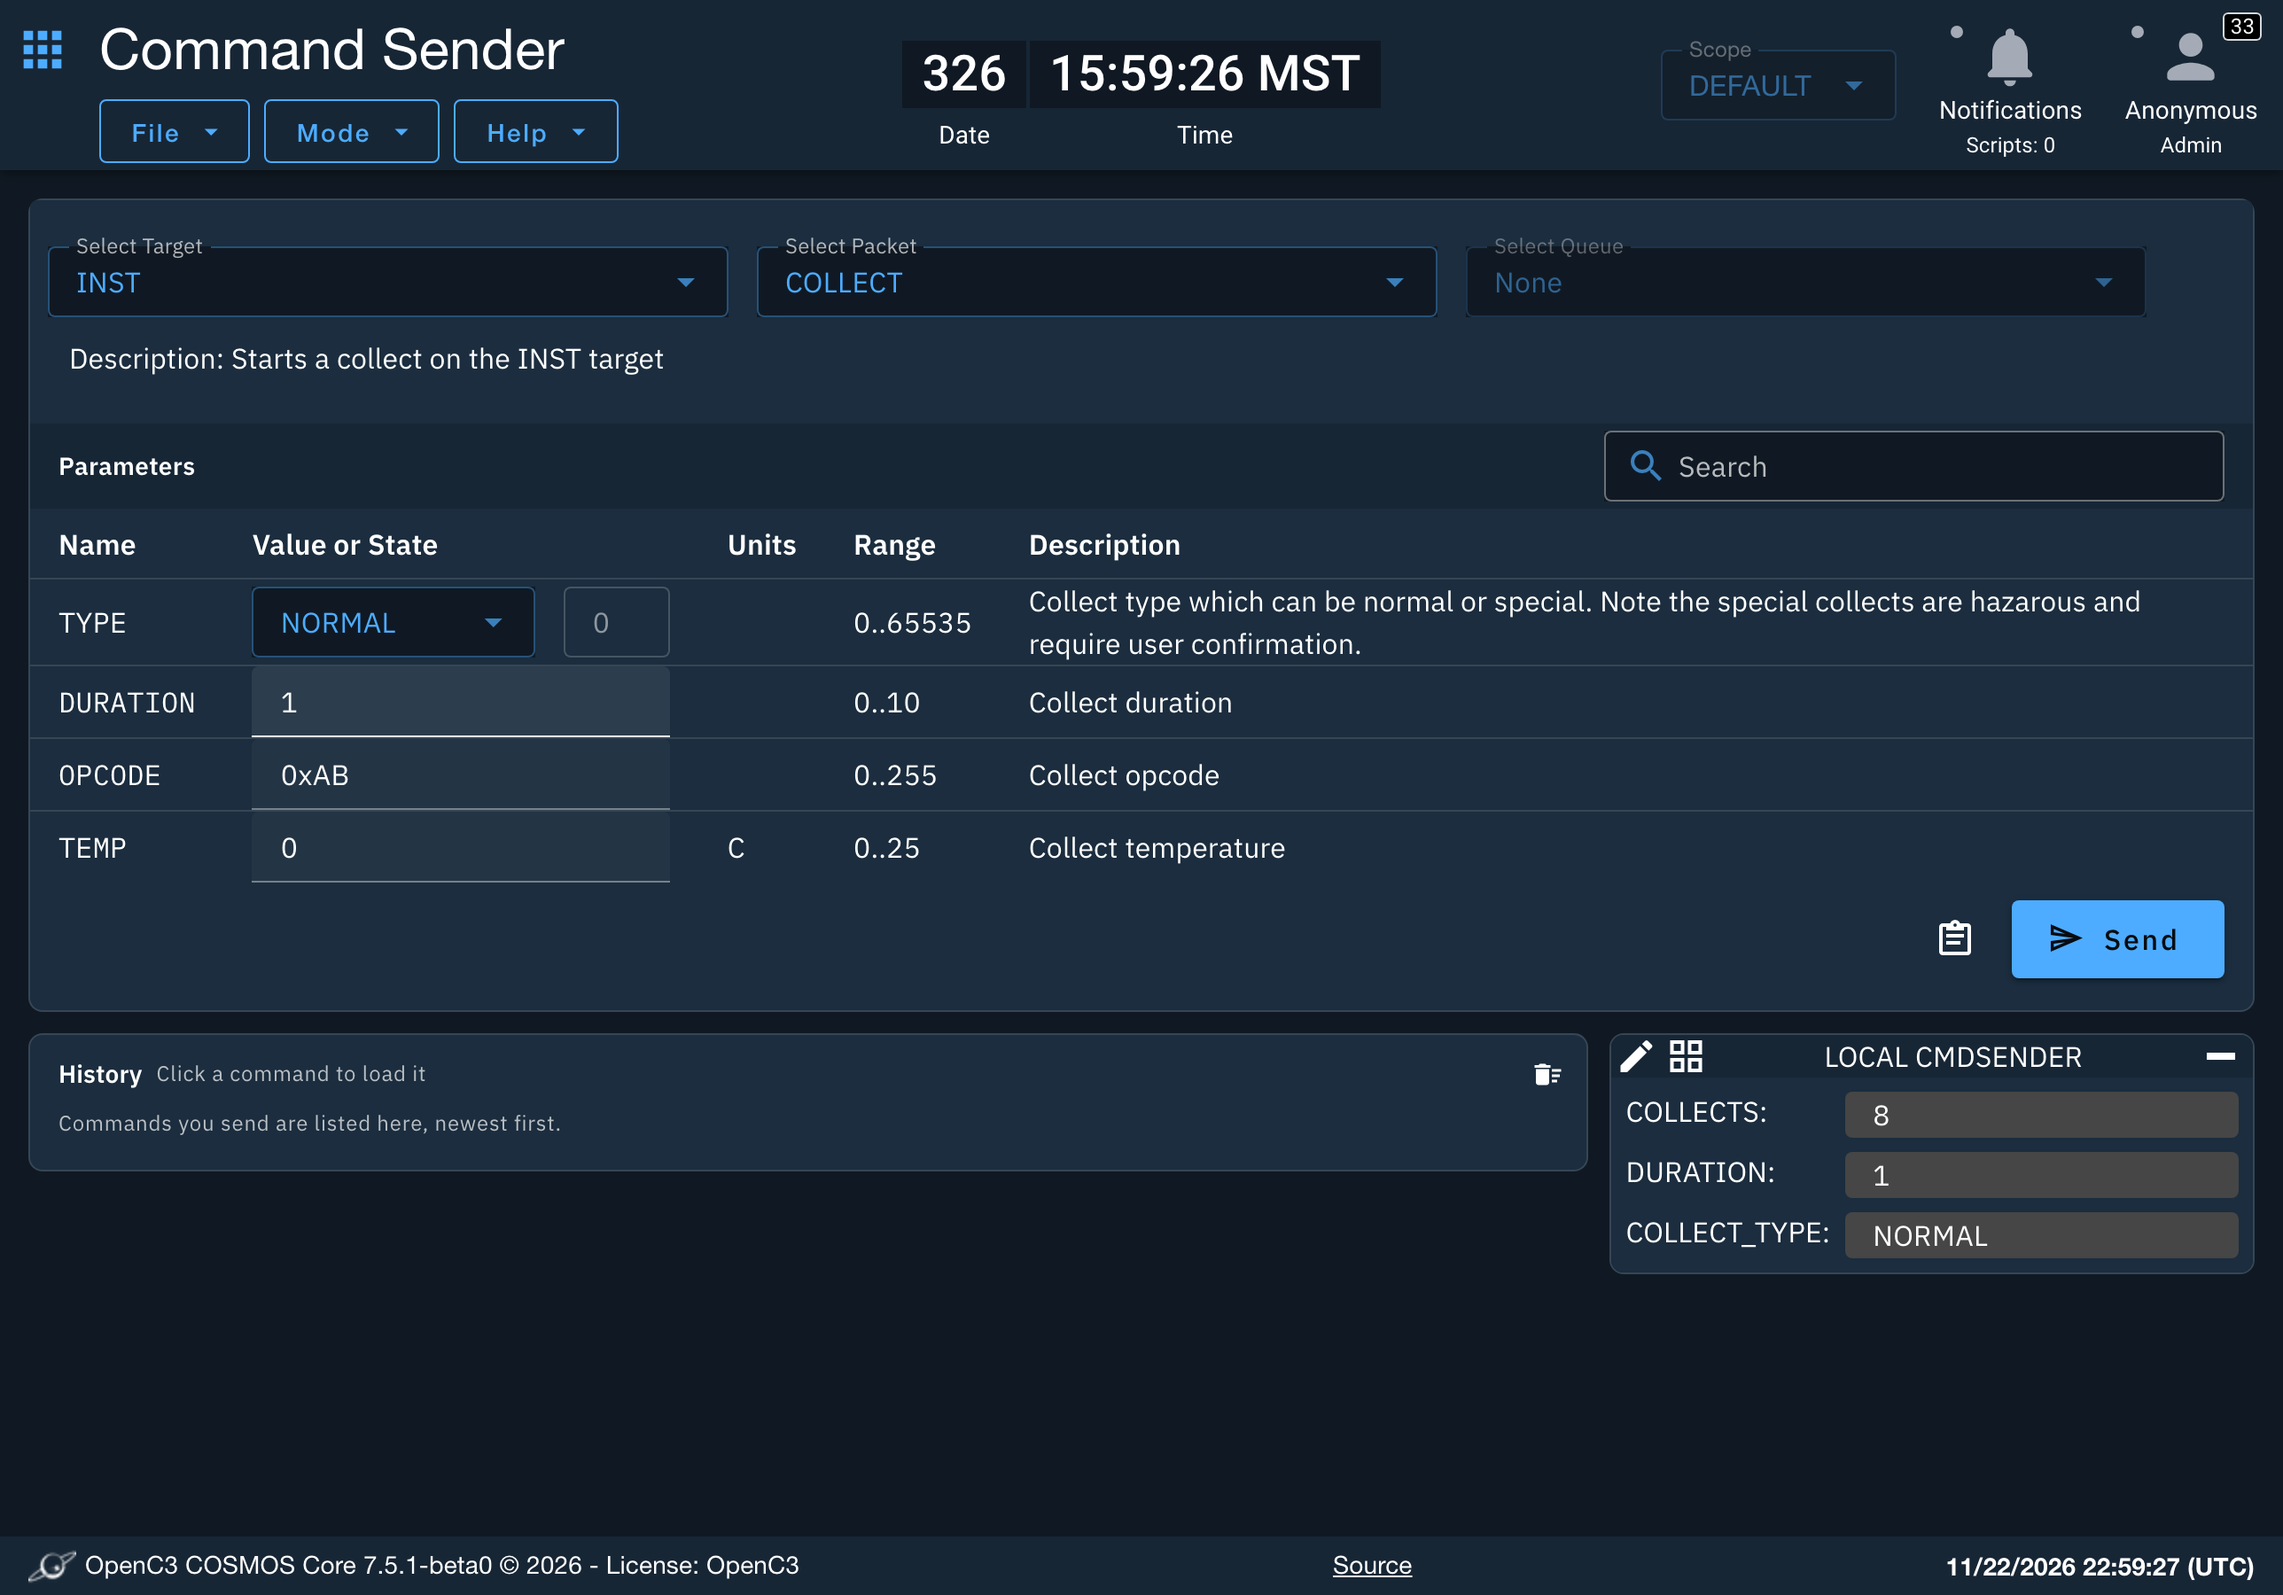
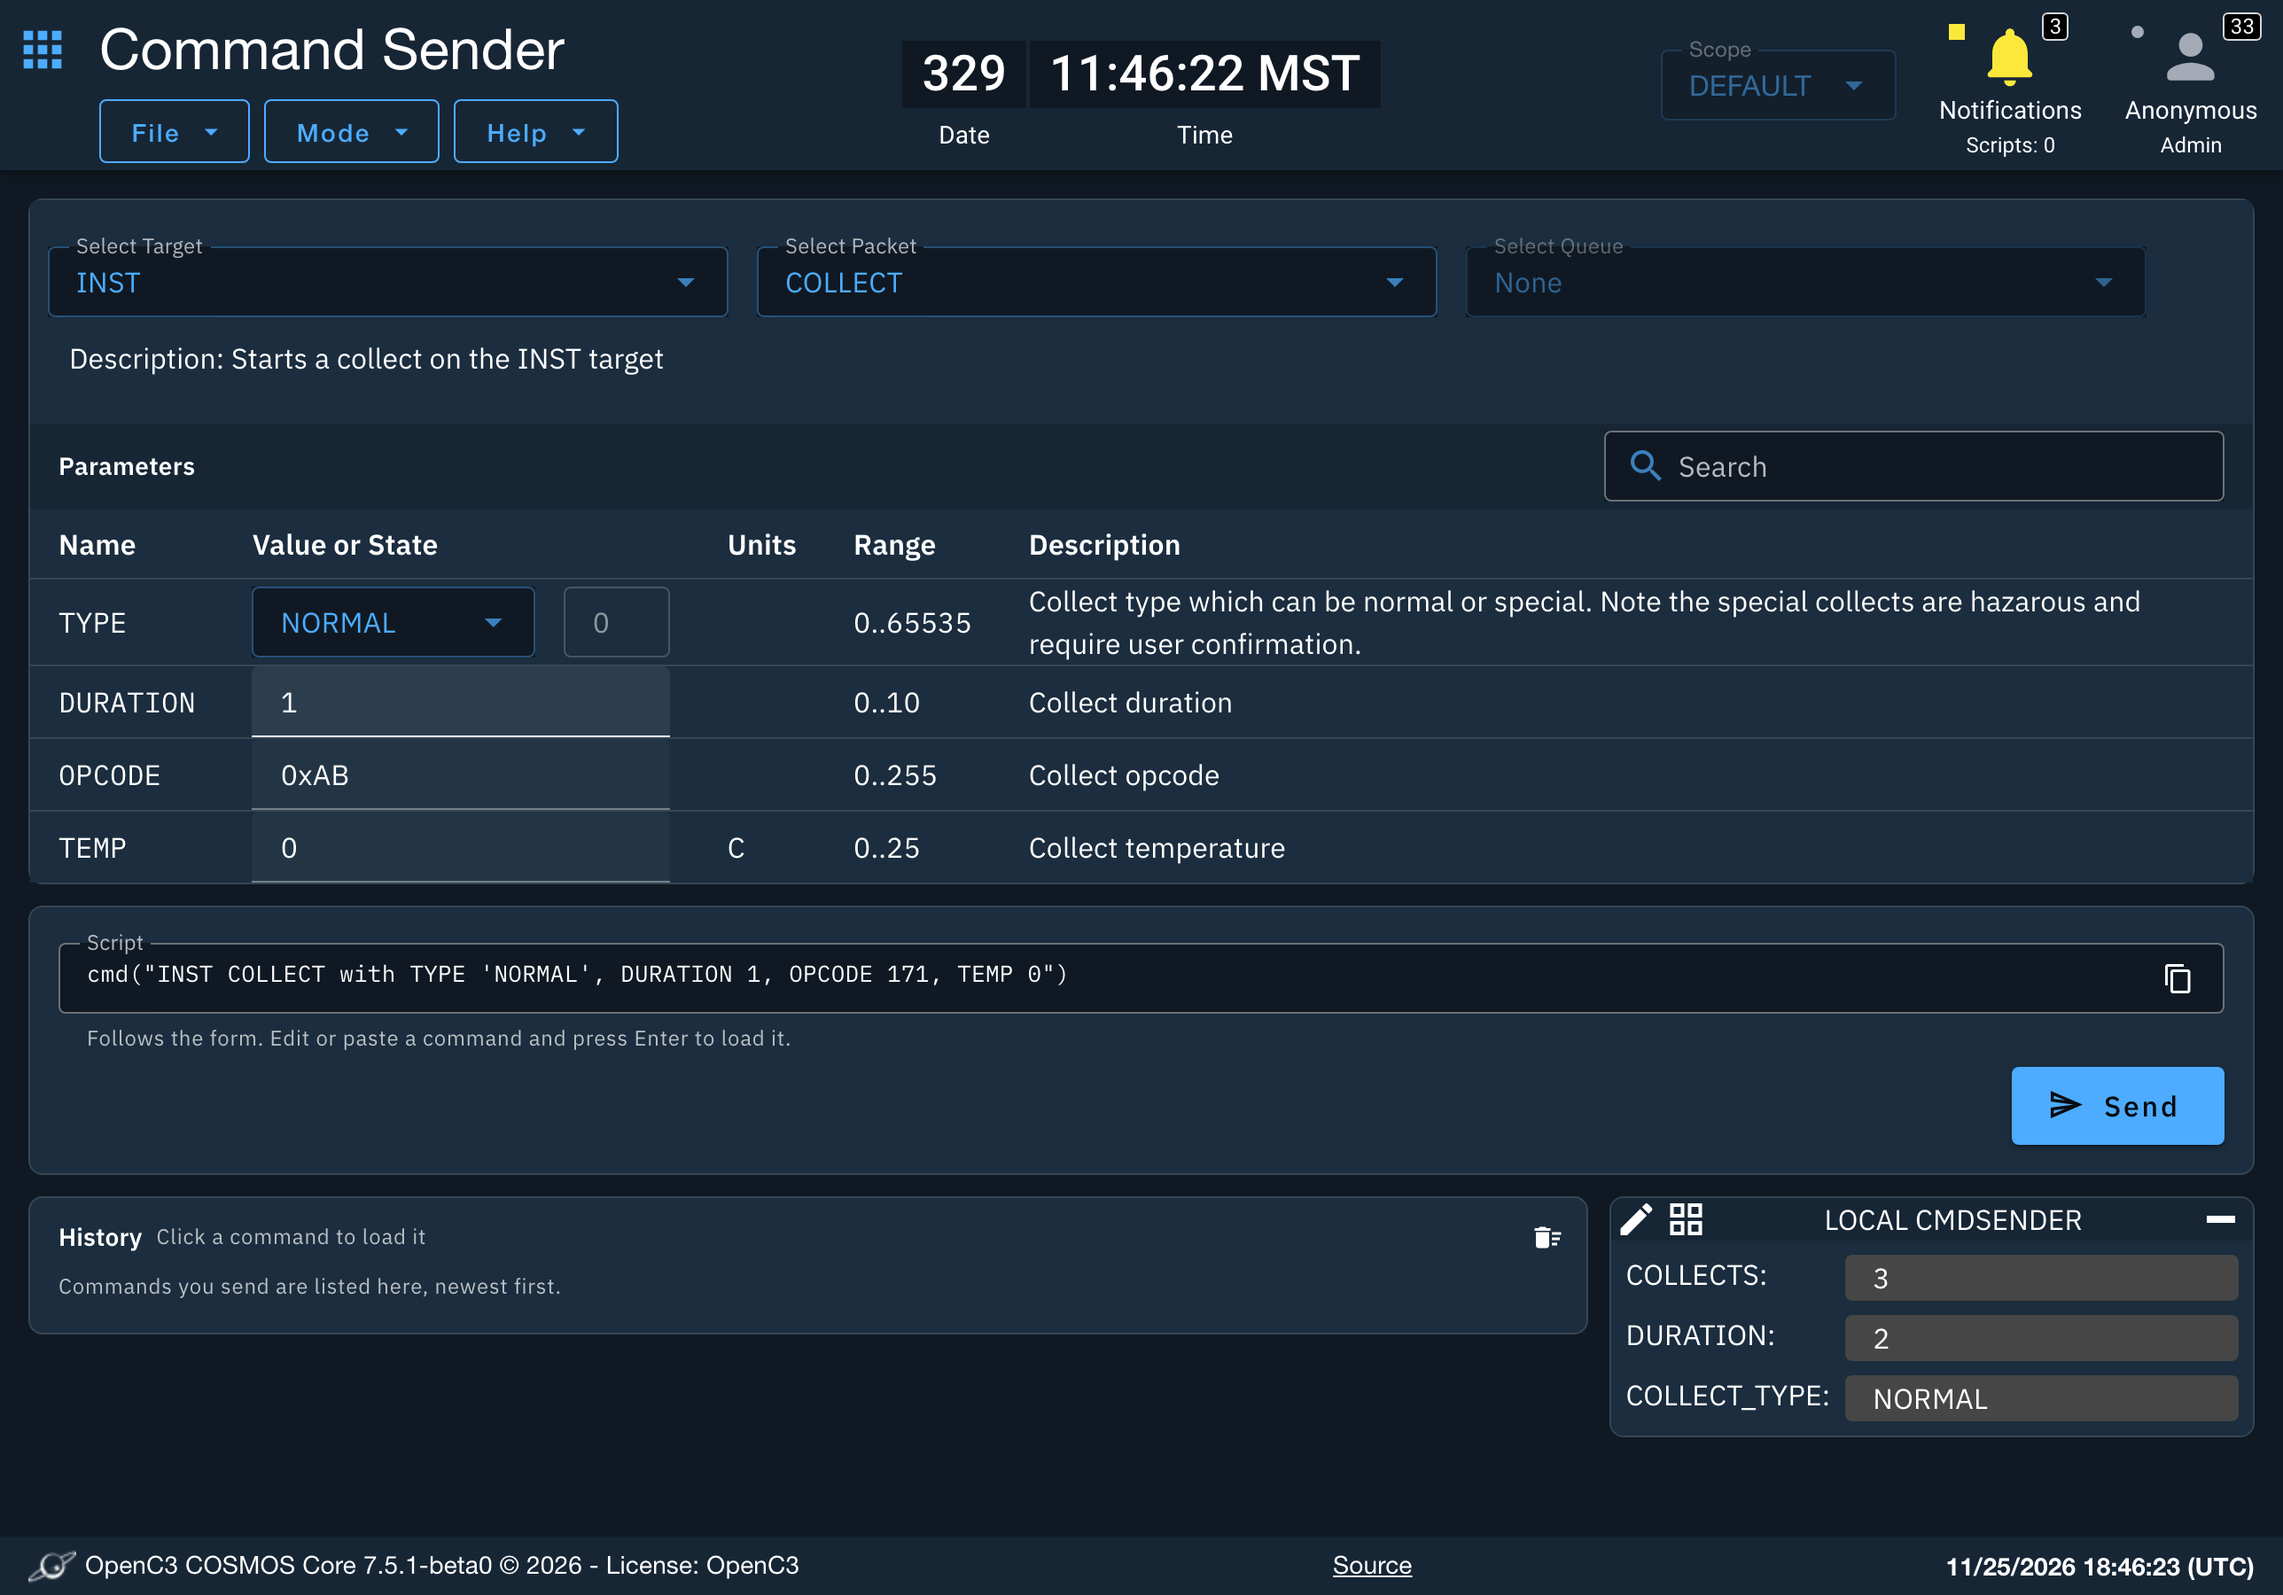
feat(cmd-sender): give the script line and Send their own panel
- Move the Script line, status and Send into a separate panel below
  the parameters, with the caution ring on both for hazardous commands
- Darken the Script line with the page background so it stands
  apart from the form's fields
- Separate history rows with a line, as the parameter table and the
  server logs do, with taller rows and a tinted current entry
- Update the Command Sender screenshots for the new layout

diff --git a/openc3-cosmos-init/plugins/packages/openc3-cosmos-tool-cmdsender/src/tools/CommandSender/CommandSender.vue b/openc3-cosmos-init/plugins/packages/openc3-cosmos-tool-cmdsender/src/tools/CommandSender/CommandSender.vue
@@ -44,11 +44,21 @@
         @command-loaded="onCommandLoaded($event)"
         @params-changed="paramsChanged"
       />
+    </section>
+    <!-- The command as it will be sent, and Send, on their own panel. Also
+         ringed for a hazardous command, since Send will ask to confirm. -->
+    <section
+      :class="[
+        'cs-panel cs-send-panel rounded-lg',
+        { 'ring-caution': sendHazardous },
+      ]"
+      aria-label="Send"
+    >
       <!-- The form's command as scripted, rebuilt as it changes. Pasting or
            editing a command there loads it into the form above. -->
       <command-line
         ref="commandLine"
-        class="px-4 pt-6"
+        class="px-4 pt-5"
         :command="commandLine"
         :load="loadCommandLine"
         :loading="loadingCommand || (!!commandName && !commandReady)"
@@ -1265,12 +1275,14 @@ export default {
   line-height: 1.5;
 }
 /* Dashboards' caution ring (dashboards.scss .panel-frame.ring-caution) */
-.cs-command {
+.cs-command,
+.cs-send-panel {
   transition:
     border-color 0.2s,
     box-shadow 0.2s;
 }
-.cs-command.ring-caution {
+.cs-command.ring-caution,
+.cs-send-panel.ring-caution {
   border-color: color-mix(
     in srgb,
     var(--color-status-caution) 60%,

diff --git a/openc3-cosmos-init/plugins/packages/openc3-cosmos-tool-cmdsender/src/tools/CommandSender/CommandHistory.vue b/openc3-cosmos-init/plugins/packages/openc3-cosmos-tool-cmdsender/src/tools/CommandSender/CommandHistory.vue
@@ -166,19 +166,21 @@ async function copy(item) {
 </script>
 
 <style scoped>
+/* A line between rows, as the parameter table and the server logs */
 .cs-history-row {
   border-left: 3px solid transparent;
-  padding-top: 3px;
-  padding-bottom: 3px;
+  border-bottom: thin solid rgba(var(--v-border-color), var(--v-border-opacity));
+  padding-top: 6px;
+  padding-bottom: 6px;
 }
 .cs-history-row:hover {
-  background: rgba(var(--v-theme-on-surface), 0.04);
+  background: rgba(var(--v-theme-on-surface), 0.06);
 }
 /* The command last loaded into the form: a secondary bar on the left that
    doesn't shift the text, as Dashboards marks the current choice */
 .cs-history-row.current {
   border-left-color: rgb(var(--v-theme-secondary));
-  background: rgba(var(--v-theme-on-surface), 0.06);
+  background: rgba(var(--v-theme-secondary), 0.14);
 }
 .cs-time {
   min-width: 8ch;

diff --git a/openc3-cosmos-init/plugins/packages/openc3-cosmos-tool-cmdsender/src/tools/CommandSender/CommandLine.vue b/openc3-cosmos-init/plugins/packages/openc3-cosmos-tool-cmdsender/src/tools/CommandSender/CommandLine.vue
@@ -238,6 +238,11 @@ onBeforeUnmount(() => clearTimeout(copiedTimer))
   /* Long values without spaces (e.g. hex blocks) wrap too */
   overflow-wrap: anywhere;
 }
+/* Darker than the panel, as the page behind it, so the line stands apart
+   from the form's fields */
+.cs-line-input :deep(.v-field) {
+  background: var(--color-background-base-default, rgba(0, 0, 0, 0.25));
+}
 /* Edits that aren't in the form yet */
 .cs-line-dirty :deep(.v-field__outline) {
   --v-field-border-opacity: 1;
